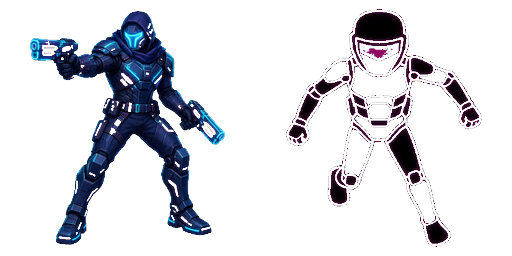
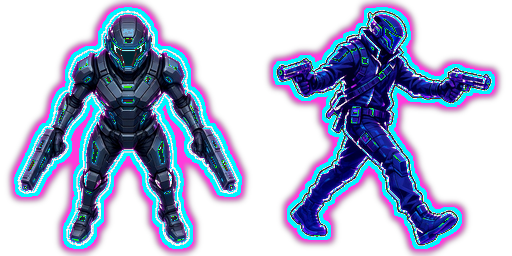
Phone combat opt7: A hi-contrast neon human (cyan outline)
Image src ?v=opt7. Local player MD5 86cb4ca8fd5e9a1dfb02ccd543efefae. B stays opt6c.

diff --git a/game-options/phone-roam-combat/a/game.js b/game-options/phone-roam-combat/a/game.js
@@ -11,11 +11,11 @@
     im.src = src;
     return im;
   }
-  const heroImg = loadImg('./art/player.png?v=opt6b');
-  const heroImg2 = loadImg('./art/player_f2.png?v=opt6b');
-  const enemyTri = loadImg('./art/enemy_tri.png?v=opt6b');
-  const enemyPod = loadImg('./art/enemy_pod.png?v=opt6b');
-  const enemyRock = loadImg('./art/enemy_rock.png?v=opt6b');
+  const heroImg = loadImg('./art/player.png?v=opt7');
+  const heroImg2 = loadImg('./art/player_f2.png?v=opt7');
+  const enemyTri = loadImg('./art/enemy_tri.png?v=opt7');
+  const enemyPod = loadImg('./art/enemy_pod.png?v=opt7');
+  const enemyRock = loadImg('./art/enemy_rock.png?v=opt7');
 
 
   const canvas = document.getElementById("c");

diff --git a/game-options/phone-roam-combat/styles.html b/game-options/phone-roam-combat/styles.html
@@ -24,8 +24,8 @@ a.btn{display:inline-flex;align-items:center;justify-content:center;min-height:4
 <section class="card">
   <h2>A — Neon cyber · twin-stick</h2>
   <div class="row">
-    <img src="a/art/style_world.png?v=opt6b" alt="A style world neon cyber top-down"/>
-    <img src="a/art/hero_silhouette.png?v=opt6b" alt="A hero silhouette"/>
+    <img src="a/art/style_world.png?v=opt7" alt="A style world neon cyber top-down"/>
+    <img src="a/art/hero_silhouette.png?v=opt7" alt="A hero silhouette"/>
   </div>
   <a class="btn" href="a/?v=opt6b">Play A</a>
 </section>

diff --git a/game-options/phone-roam-combat/a/index.html b/game-options/phone-roam-combat/a/index.html
@@ -72,6 +72,6 @@ canvas{background:#050510}
     </div>
   </div>
 </div>
-<script src="game.js?v=opt6b"></script>
+<script src="game.js?v=opt7"></script>
 </body>
 </html>
